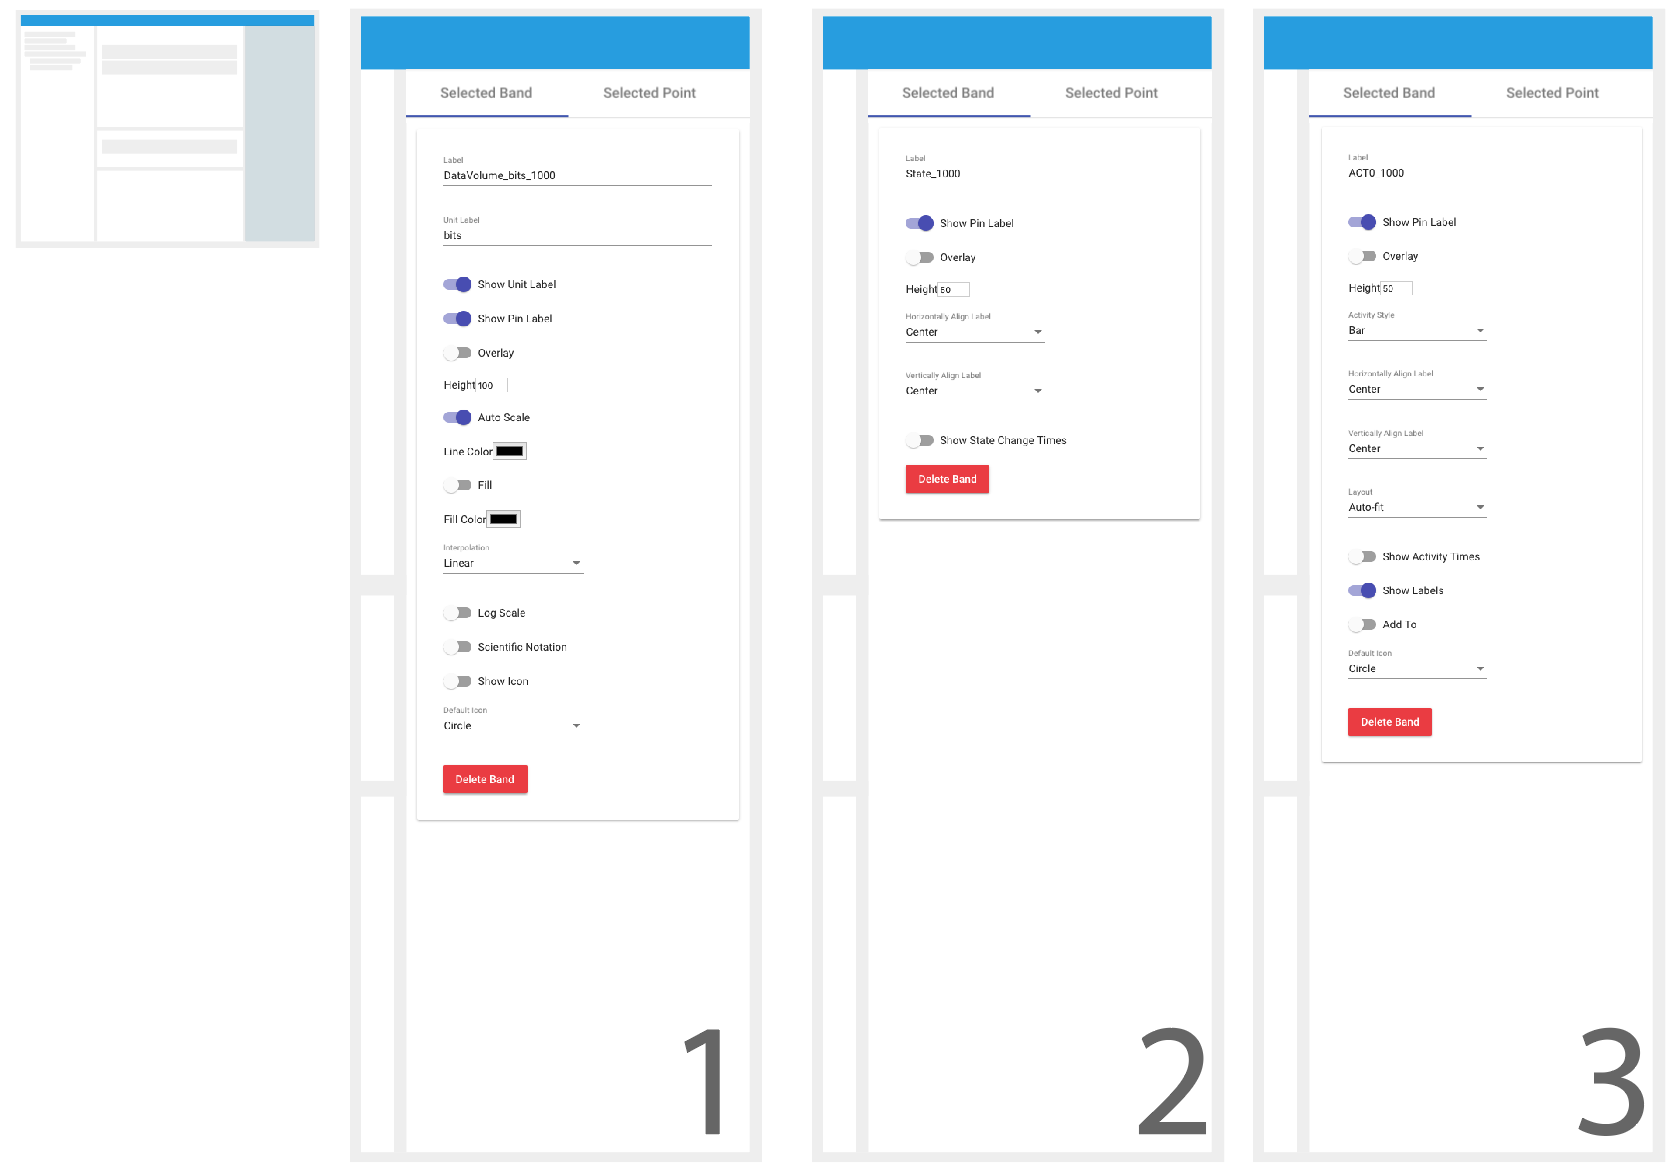
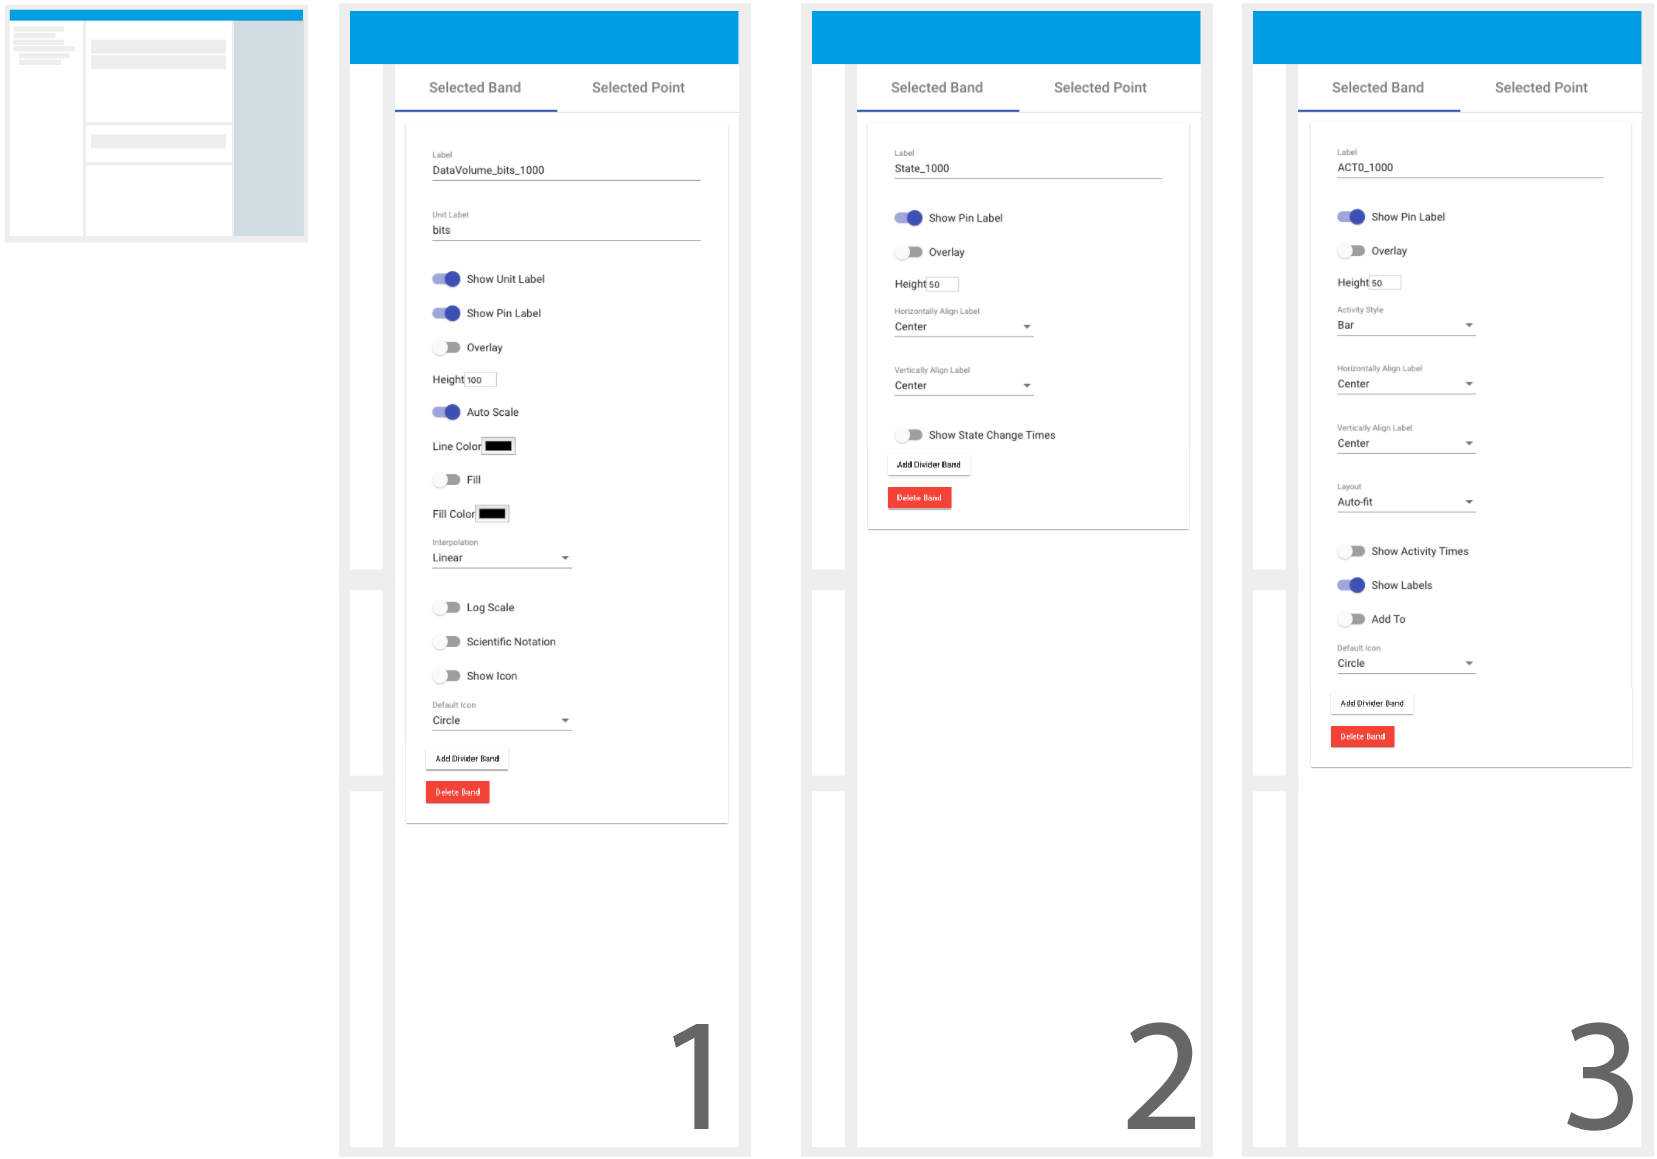
[MPSCORE-10438] Add divider after selected band (#136)
* Add an 'Add Divider' button to the per-band settings to insert a divider immediately below the selected band

* Use the global 'Add Divider' button instead of the band-specific settings pane, and refactor

* Missed an undefined

* Move sortOrderForBand to shared/util/bands.ts

* Combine optional parameters to AddBand in an options object

Since AddBand now has two independent optional parameters that modify
the behavior of the action, combine them into a single (typed) optional
object parameter. This has the added benefit of clearly naming the modifiers
at the call site, making it more obvious what effect the extra parameters have.

This commit also adds tests for sortOrderForBand().

* Move AddBandModifiers into shared/models/

* Run Prettier

* Add test to timeline reducer for AddBand with afterBandId

* Slightly condense the new AddBand/afterBandId test for clarity

* Move the Add Divider Band button from the global properties into the selected band pane

* Move `Add Divider Band` button into band-specific settings

* Fix outdated comment on onAddDividerBand

* Alphabetize

* Move add divider button onto its own horizontal line

* Exchange positions of add divider and delete sub-band buttons

* Update documentation to reflect the add divider button move

diff --git a/src/app/raven/reducers/timeline.reducer.ts b/src/app/raven/reducers/timeline.reducer.ts
@@ -39,6 +39,7 @@ import {
   getMaxTimeRange,
   getParentSourceIds,
   getPoint,
+  sortOrderForBand,
   updateSelectedBandIds,
   updateSelectedPoint,
   updateSortOrder,
@@ -158,29 +159,46 @@ export function reducer(
  * Reduction Helper. Called when reducing the 'AddBand' action.
  */
 export function addBand(state: TimelineState, action: AddBand): TimelineState {
-  const bands = state.bands.concat({
-    ...action.band,
-    containerId: '0',
-    sortOrder: state.bands.filter(b => b.containerId === '0').length,
-    subBands: action.band.subBands.map(subBand => {
-      if (action.sourceId) {
-        return {
-          ...subBand,
-          parentUniqueId: action.band.id,
-          sourceIds: without(subBand.sourceIds, action.sourceId).concat(
-            action.sourceId,
-          ),
-          ...action.additionalSubBandProps,
-        };
-      } else {
-        return {
-          ...subBand,
-          parentUniqueId: action.band.id,
-          ...action.additionalSubBandProps,
-        };
+  const prevSort = sortOrderForBand(
+    state.bands,
+    action.modifiers.afterBandId || '',
+  );
+
+  const bands = state.bands
+    .map(band => {
+      if (band.containerId !== '0') {
+        return band;
       }
-    }),
-  });
+
+      if (band.sortOrder > prevSort) {
+        return { ...band, sortOrder: band.sortOrder + 1 };
+      } else {
+        return band;
+      }
+    })
+    .concat({
+      ...action.band,
+      containerId: '0',
+      sortOrder: prevSort + 1,
+      subBands: action.band.subBands.map(subBand => {
+        if (action.sourceId) {
+          return {
+            ...subBand,
+            parentUniqueId: action.band.id,
+            sourceIds: without(subBand.sourceIds, action.sourceId).concat(
+              action.sourceId,
+            ),
+            ...action.modifiers.additionalSubBandProps,
+          };
+        } else {
+          return {
+            ...subBand,
+            parentUniqueId: action.band.id,
+            ...action.modifiers.additionalSubBandProps,
+          };
+        }
+      }),
+    });
 
   return {
     ...state,

diff --git a/src/app/raven/reducers/timeline.reducer.spec.ts b/src/app/raven/reducers/timeline.reducer.spec.ts
@@ -104,7 +104,9 @@ describe('timeline reducer', () => {
     };
     timelineState = reducer(
       timelineState,
-      new AddBand(source.id, newBand, { filterTarget: 'DKF' }),
+      new AddBand(source.id, newBand, {
+        additionalSubBandProps: { filterTarget: 'DKF' },
+      }),
     );
 
     expect(timelineState).toEqual({
@@ -170,6 +172,25 @@ describe('timeline reducer', () => {
       guides: [1665067939],
       lastClickTime: 1665067939,
     });
+  });
+
+  it('handle AddBand (insert after named band)', () => {
+    const actions = [
+      new AddBand(null, { ...compositeBand, id: '0' }),
+      new AddBand(null, { ...compositeBand, id: '1' }),
+      new AddBand(null, { ...compositeBand, id: '42' }, { afterBandId: '0' }),
+    ];
+
+    timelineState = actions.reduce(
+      (state, action) => reducer(state, action),
+      timelineState,
+    );
+
+    const sortedBands = [...timelineState.bands].sort(
+      (a, b) => a.sortOrder - b.sortOrder,
+    );
+
+    expect(sortedBands.map(b => b.id)).toEqual(['0', '42', '1']);
   });
 
   it('handle AddPointsToSubBand', () => {

diff --git a/src/app/shared/models/add-band-modifiers.ts b/src/app/shared/models/add-band-modifiers.ts
@@ -1,0 +1,23 @@
+/**
+ * Copyright 2018, by the California Institute of Technology. ALL RIGHTS RESERVED. United States Government Sponsorship acknowledged.
+ * Any commercial use must be negotiated with the Office of Technology Transfer at the California Institute of Technology.
+ * This software may be subject to U.S. export control laws and regulations.
+ * By accepting this document, the user agrees to comply with all applicable U.S. export laws and regulations.
+ * User has the responsibility to obtain export licenses, or other export authority as may be required
+ * before exporting such information to foreign countries or providing access to foreign persons
+ */
+
+import { BaseType, StringTMap } from '../../shared/models';
+
+export interface AddBandModifiers {
+  /**
+   * Place the new band after the named band in the sort order.
+   * Defaults to the end of the sort order.
+   */
+  afterBandId?: string;
+
+  /**
+   * A set of additional properties to include on subbands of this band.
+   */
+  additionalSubBandProps?: StringTMap<BaseType>;
+}

diff --git a/src/app/raven/containers/timeline/timeline.component.html b/src/app/raven/containers/timeline/timeline.component.html
@@ -159,6 +159,7 @@
               [selectedBandId]="selectedBandId"
               [selectedSubBandId]="selectedSubBandId"
               (deleteSubBand)="onDeleteSubBand($event)"
+              (addDividerBand)="onAddDividerBand()"
               (updateBand)="onUpdateBand($event)"
               (updateBandAndSubBand)="onUpdateBandAndSubBand($event)"
               (updateSubBand)="onUpdateSubBand($event)"
@@ -257,7 +258,6 @@
       </button>
       <raven-settings-global
         [defaultBandSettings]="defaultBandSettings"
-        (addDividerBand)="onAddDividerBand()"
         (updateDefaultBandSettings)="onUpdateDefaultBandSettings($event)"
         (updateTimeline)="onUpdateTimeline($event)">
       </raven-settings-global>

diff --git a/src/app/shared/util/bands.spec.ts b/src/app/shared/util/bands.spec.ts
@@ -18,6 +18,7 @@ import {
   isAddTo,
   isMessageTypeActivity,
   isOverlay,
+  sortOrderForBand,
   subBandById,
   updateSelectedBandIds,
   updateSortOrder,
@@ -233,6 +234,14 @@ describe('bands.ts', () => {
   describe('updateSortOrder', () => {
     it(`should maintain the correct sort order of the given bands`, () => {
       expect(updateSortOrder(bands)).toEqual(bands);
+    });
+  });
+
+  describe('sortOrderForBand', () => {
+    it(`should return the sortOrder for the band with the given id`, () => {
+      expect(sortOrderForBand(bands, '102')).toEqual(2);
+      expect(sortOrderForBand(bands, '')).toEqual(bands.length - 1);
+      expect(sortOrderForBand(bands, 'abc')).toEqual(bands.length - 1);
     });
   });
 

diff --git a/src/app/raven/effects/source-explorer.effects.ts b/src/app/raven/effects/source-explorer.effects.ts
@@ -725,9 +725,11 @@ export class SourceExplorerEffects {
                       action.sourceId,
                       toCompositeBand(subBand),
                       {
-                        filterTarget: (sourceExplorer.treeBySourceId[
-                          action.sourceId
-                        ] as RavenFilterSource).filterTarget,
+                        additionalSubBandProps: {
+                          filterTarget: (sourceExplorer.treeBySourceId[
+                            action.sourceId
+                          ] as RavenFilterSource).filterTarget,
+                        },
                       },
                     ),
                   );

diff --git a/src/app/shared/util/bands.ts b/src/app/shared/util/bands.ts
@@ -387,6 +387,24 @@ export function updateSortOrder(
 }
 
 /**
+ * Helper that finds the sortOrder of a band by its id.
+ */
+export function sortOrderForBand(
+  bands: RavenCompositeBand[],
+  bandId: string,
+): number {
+  const bandIndex = bands
+    .filter(b => b.containerId === '0')
+    .findIndex(b => b.id === bandId);
+
+  if (bandIndex !== -1) {
+    return bands[bandIndex].sortOrder;
+  } else {
+    return bands.filter(b => b.containerId === '0').length - 1;
+  }
+}
+
+/**
  * Helper that gets new time ranges based on the current view time range and the list of given bands.
  */
 export function updateTimeRanges(

diff --git a/src/app/shared/components/raven-settings-global/raven-settings-global.component.html b/src/app/shared/components/raven-settings-global/raven-settings-global.component.html
@@ -22,15 +22,6 @@
           (change)="updateDefaultBandSettings.emit({ update: { labelWidth: $event.target.valueAsNumber } })">
       </div>
 
-      <!-- Add Divider Band. -->
-      <div class="field">
-        <button
-          mat-raised-button
-          (click)="addDividerBand.emit(null)">
-          Add Divider Band
-        </button>
-      </div>
-
       <!-- Show Last Click. -->
       <div class="field">
         <mat-slide-toggle

diff --git a/src/app/raven/actions/timeline.actions.ts b/src/app/raven/actions/timeline.actions.ts
@@ -10,6 +10,7 @@
 import { Action } from '@ngrx/store';
 
 import {
+  AddBandModifiers,
   BaseType,
   RavenCompositeBand,
   RavenPin,
@@ -59,7 +60,7 @@ export class AddBand implements Action {
   constructor(
     public sourceId: string | null,
     public band: RavenCompositeBand,
-    public additionalSubBandProps?: StringTMap<BaseType>,
+    public modifiers: AddBandModifiers = {},
   ) {}
 }
 

diff --git a/src/app/shared/components/raven-settings-bands/raven-settings-bands.component.html b/src/app/shared/components/raven-settings-bands/raven-settings-bands.component.html
@@ -415,6 +415,15 @@
             </div>
           </ng-container>
 
+          <!-- Add Divider Band. -->
+          <div class="field">
+            <button
+              mat-raised-button
+              (click)="addDividerBand.emit()">
+              Add Divider Band
+            </button>
+          </div>
+
           <!-- Delete Sub-Band. -->
           <div class="field">
             <button

diff --git a/src/app/raven/containers/timeline/timeline.component.ts b/src/app/raven/containers/timeline/timeline.component.ts
@@ -340,7 +340,9 @@ export class TimelineComponent implements OnDestroy {
    */
   onAddDividerBand(): void {
     this.store.dispatch(
-      new timelineActions.AddBand(null, toCompositeBand(toDividerBand())),
+      new timelineActions.AddBand(null, toCompositeBand(toDividerBand()), {
+        afterBandId: this.selectedBandId,
+      }),
     );
   }
 

diff --git a/src/app/shared/components/raven-settings-global/raven-settings-global.component.ts b/src/app/shared/components/raven-settings-global/raven-settings-global.component.ts
@@ -20,9 +20,6 @@ export class RavenSettingsGlobalComponent {
   defaultBandSettings: RavenDefaultBandSettings;
 
   @Output()
-  addDividerBand: EventEmitter<null> = new EventEmitter<null>();
-
-  @Output()
   updateDefaultBandSettings: EventEmitter<RavenUpdate> = new EventEmitter<
     RavenUpdate
   >();
